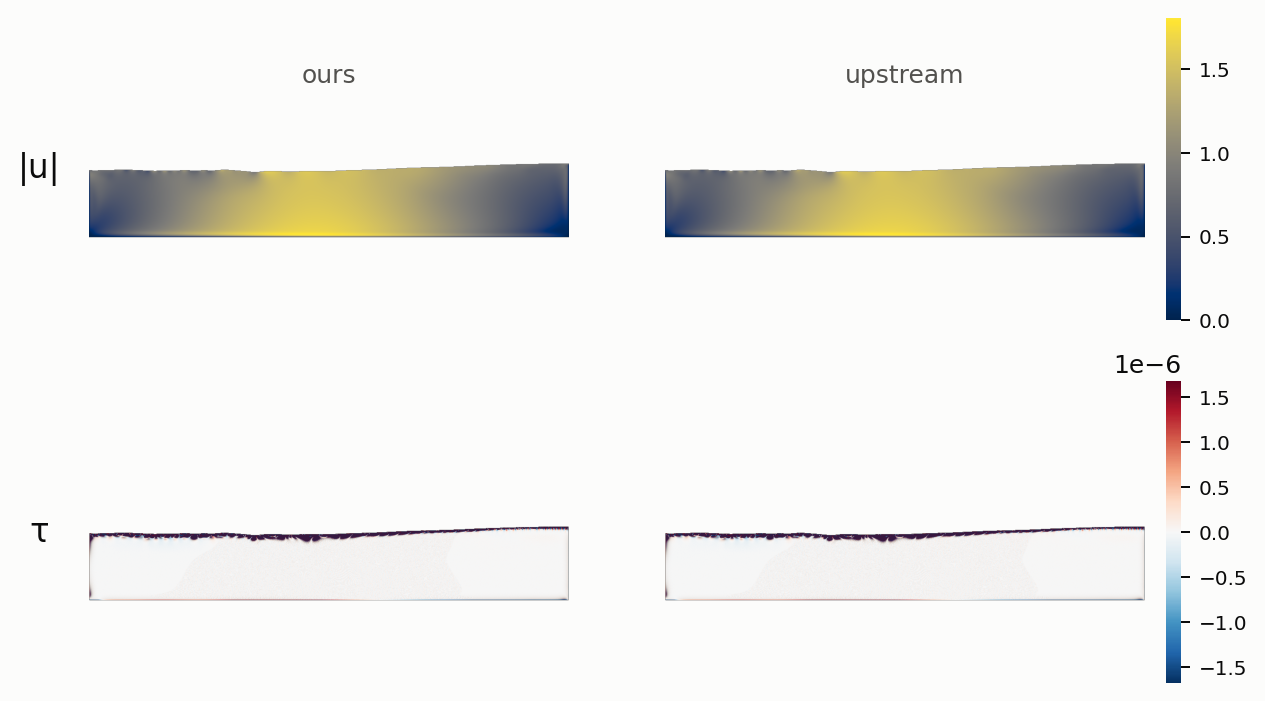
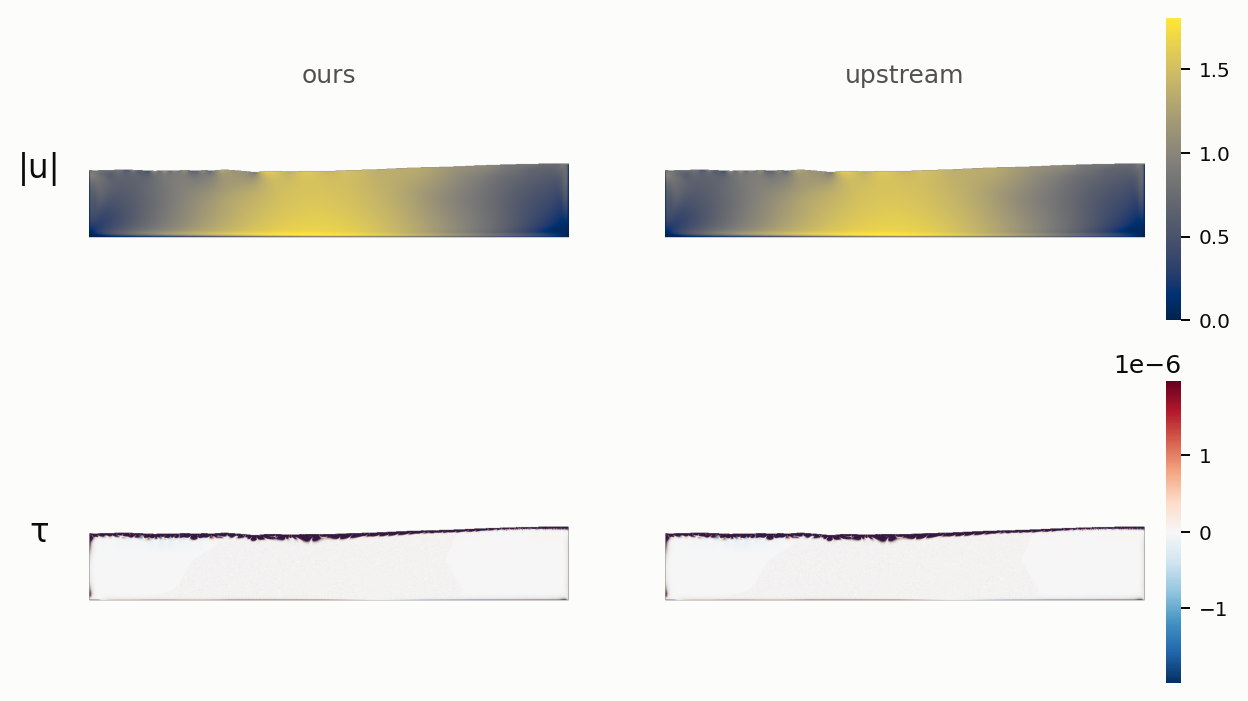
fix(nondim): H_bio was missing its factor of 2 in every postprocessing script
Reintroduced, across every analysis script written this session, a bug
already fixed in the production driver on 2026-08-03 (H_bio must be
the full bag height; Ly is a half-height ratio). Correlation/sign-
agreement/relative-error findings are mathematically scale-invariant
and unaffected (verified by rerunning after the fix); the absolute U0/
P0 normalization and colorbar values in the diff figures were off by
~9-20% and are now corrected.

Also adds the checkpoint-restart quasi-steady-state recovery analysis:
the restart-recovered run does converge to the same limit cycle as a
fresh start, but only after a transient overshoot lasting ~8-9 cycles
(longer than the nominal 3-cycle ramp) -- see diary.md 2026-08-20 (7).

Claude-Session: https://claude.ai/code/session_01YAKLKMs5oUYu8r6RenvudK

diff --git a/scripts/compare_restart_recovery.py b/scripts/compare_restart_recovery.py
@@ -1,0 +1,78 @@
+"""Does the theta=3deg->7deg restart chain converge to the SAME limit
+cycle as a genuine fresh theta=7deg cold start? (diary.md 2026-08-20,
+user's question). Compares the raw shear_stress.dat/normf.dat time
+series over each run's post-ramp tail, phase-folded by t mod T_per_nd,
+rather than just the single-number qss/max stats from results.json
+(which can hide or exaggerate a phase-offset vs. a genuine amplitude
+difference).
+
+Usage:
+    uv run python scripts/compare_restart_recovery.py
+"""
+import math
+
+import numpy as np
+import matplotlib.pyplot as plt
+
+RESTART_DIR = "/oscar/data/dharri15/eaguerov/Github/multi-fidelity-bioreactor/runs/c7e9eca7"
+BASELINE_DIR = "/oscar/data/dharri15/eaguerov/Github/multi-fidelity-bioreactor/runs/d054ff02"
+OUT_PATH = "/oscar/data/dharri15/eaguerov/Github/multi-fidelity-bioreactor/experiments/figures/restart_recovery_comparison.png"
+
+L_bio, ANGLE, RPM = 0.25, 7.0, 32.5
+Th_max = math.radians(ANGLE)
+T_per = 60.0 / RPM
+b_geom = 0.03575
+Ly = b_geom / L_bio
+H_bio = 2. * L_bio * Ly  # [FIX 2026-08-20] was missing the factor of 2 the production driver has had since 2026-08-03 (diary.md) -- Ly is a HALF-height ratio, H_bio must be the FULL bag height
+V_bio = L_bio / 4 * (H_bio + 0.5 * L_bio * math.tan(Th_max))
+U_bio = V_bio / (H_bio * 0.5) / T_per
+T_bio = L_bio / U_bio
+T_per_nd = T_per / T_bio  # at theta=7deg (both runs' actual target condition)
+
+
+def load_tail(run_dir, n_cycles_tail=8):
+    t, tau95, tau98, tau100, taumean = np.loadtxt(f"{run_dir}/shear_stress.dat", skiprows=1,
+                                                     usecols=(1, 2, 3, 4, 5), unpack=True)
+    _, _, _, _, _, uxrms, _, _, _, uyrms, _, _ = np.loadtxt(f"{run_dir}/normf.dat", skiprows=1,
+                                                              usecols=range(2, 14), unpack=True)
+    velrms = np.sqrt(uxrms ** 2 + uyrms ** 2)
+    t_end = t[-1]
+    tail_mask = t > t_end - n_cycles_tail * T_per_nd
+    return t[tail_mask], tau95[tail_mask], tau98[tail_mask], velrms[: len(t)][tail_mask]
+
+
+t_r, tau95_r, tau98_r, vel_r = load_tail(RESTART_DIR)
+t_b, tau95_b, tau98_b, vel_b = load_tail(BASELINE_DIR)
+
+phase_r = np.mod(t_r, T_per_nd) / T_per_nd
+phase_b = np.mod(t_b, T_per_nd) / T_per_nd
+
+print(f"T_per_nd(theta=7) = {T_per_nd:.4f}")
+print(f"restart tail: n={len(t_r)}, t=[{t_r[0]:.2f},{t_r[-1]:.2f}]  tau95 mean={tau95_r.mean():.5g} std={tau95_r.std():.5g}")
+print(f"baseline tail: n={len(t_b)}, t=[{t_b[0]:.2f},{t_b[-1]:.2f}]  tau95 mean={tau95_b.mean():.5g} std={tau95_b.std():.5g}")
+print(f"restart tail:  velrms mean={vel_r.mean():.5g} std={vel_r.std():.5g}")
+print(f"baseline tail: velrms mean={vel_b.mean():.5g} std={vel_b.std():.5g}")
+
+BG = "#fcfcfb"
+TEXT = "#0b0b0b"
+fig, axes = plt.subplots(1, 2, figsize=(9, 3.4))
+fig.patch.set_facecolor(BG)
+for ax in axes:
+    ax.set_facecolor(BG)
+    for spine in ["top", "right"]:
+        ax.spines[spine].set_visible(False)
+
+axes[0].scatter(phase_r, tau95_r, s=6, alpha=0.5, color="#2f6f9f", label="restart-recovered (3°→7°)")
+axes[0].scatter(phase_b, tau95_b, s=6, alpha=0.5, color="#c1533c", label="fresh (0°→7°)")
+axes[0].set_xlabel("phase (t mod T_per / T_per)")
+axes[0].set_ylabel("τ₉₅")
+axes[0].legend(fontsize=8, frameon=False)
+
+axes[1].scatter(phase_r, vel_r, s=6, alpha=0.5, color="#2f6f9f")
+axes[1].scatter(phase_b, vel_b, s=6, alpha=0.5, color="#c1533c")
+axes[1].set_xlabel("phase (t mod T_per / T_per)")
+axes[1].set_ylabel("vel_rms")
+
+fig.tight_layout()
+fig.savefig(OUT_PATH, dpi=160, facecolor=fig.get_facecolor())
+print(f"Saved to {OUT_PATH}")

diff --git a/scripts/plot_restart_recovery_settling.py b/scripts/plot_restart_recovery_settling.py
@@ -1,0 +1,33 @@
+"""Raw (non-phase-folded) tau_95(t) for the restart-recovered run vs. the
+fresh baseline, plotted since each run's own ramp start -- shows whether
+the restart carries a transient overshoot before matching the fresh
+run, and how long that takes (diary.md 2026-08-20).
+
+Usage:
+    uv run python scripts/plot_restart_recovery_settling.py
+"""
+import numpy as np
+import matplotlib.pyplot as plt
+
+RESTART_DIR = "/oscar/data/dharri15/eaguerov/Github/multi-fidelity-bioreactor/runs/c7e9eca7"
+BASELINE_DIR = "/oscar/data/dharri15/eaguerov/Github/multi-fidelity-bioreactor/runs/d054ff02"
+OUT_PATH = "/oscar/data/dharri15/eaguerov/Github/multi-fidelity-bioreactor/experiments/figures/restart_recovery_transient_settling.png"
+
+
+def load(run_dir):
+    t, tau95 = np.loadtxt(f"{run_dir}/shear_stress.dat", skiprows=1, usecols=(1, 2), unpack=True)
+    return t, tau95
+
+
+t_r, tau_r = load(RESTART_DIR)
+t_b, tau_b = load(BASELINE_DIR)
+
+fig, ax = plt.subplots(figsize=(10, 3.5))
+ax.plot(t_r - t_r[0], tau_r, lw=0.6, color="#2f6f9f", label="restart-recovered (3°→7°), t since its own restart")
+ax.plot(t_b, tau_b, lw=0.6, color="#c1533c", label="fresh (0°→7°), t since t=0")
+ax.set_xlabel("t since ramp start (non-dim)")
+ax.set_ylabel("τ₉₅")
+ax.legend(fontsize=8)
+fig.tight_layout()
+fig.savefig(OUT_PATH, dpi=140)
+print(f"Saved to {OUT_PATH}")

diff --git a/scripts/compute_us_vs_upstream_stats_corrected.py b/scripts/compute_us_vs_upstream_stats_corrected.py
@@ -42,7 +42,7 @@ a_geom, b_geom = 0.25, 0.03575
 Ly = b_geom / L_bio
 Th_max = math.radians(ANGLE)
 T_per = 60.0 / RPM
-H_bio = L_bio * Ly
+H_bio = 2. * L_bio * Ly  # [FIX 2026-08-20] was missing the factor of 2 the production driver has had since 2026-08-03 (diary.md) -- Ly is a HALF-height ratio, H_bio must be the FULL bag height
 V_bio = L_bio / 4 * (H_bio + 0.5 * L_bio * math.tan(Th_max))
 U_bio = V_bio / (H_bio * 0.5) / T_per
 Re_w = rho_w * U_bio * L_bio / mu_w

diff --git a/scripts/analyze_and_render_rampmatched_comparison.py b/scripts/analyze_and_render_rampmatched_comparison.py
@@ -46,7 +46,7 @@ Th_max = math.radians(ANGLE)
 T_per = 60.0 / RPM
 b_geom = 0.03575
 Ly = b_geom / L_bio
-H_bio = L_bio * Ly
+H_bio = 2. * L_bio * Ly  # [FIX 2026-08-20] was missing the factor of 2 the production driver has had since 2026-08-03 (diary.md) -- Ly is a HALF-height ratio, H_bio must be the FULL bag height
 V_bio = L_bio / 4 * (H_bio + 0.5 * L_bio * math.tan(Th_max))
 U_bio = V_bio / (H_bio * 0.5) / T_per
 Re_w = rho_w * U_bio * L_bio / mu_w

diff --git a/scripts/build_rampmatched_summary_table.py b/scripts/build_rampmatched_summary_table.py
@@ -27,7 +27,7 @@ L_bio, ANGLE, RPM = 0.25, 7.0, 32.5
 Th_max = math.radians(ANGLE)
 T_per = 60.0 / RPM
 Ly = 0.03575 / L_bio
-H_bio = L_bio * Ly
+H_bio = 2. * L_bio * Ly  # [FIX 2026-08-20] was missing the factor of 2 the production driver has had since 2026-08-03 (diary.md) -- Ly is a HALF-height ratio, H_bio must be the FULL bag height
 V_bio = L_bio/4*(H_bio + 0.5*L_bio*math.tan(Th_max))
 U_bio = V_bio/(H_bio*0.5)/T_per
 Re_w = rho_w*U_bio*L_bio/mu_w

diff --git a/scripts/plot_rampmatched_heatmap.py b/scripts/plot_rampmatched_heatmap.py
@@ -44,7 +44,7 @@ L_bio, ANGLE, RPM = 0.25, 7.0, 32.5
 Th_max = math.radians(ANGLE)
 T_per = 60.0 / RPM
 Ly = 0.03575 / L_bio
-H_bio = L_bio * Ly
+H_bio = 2. * L_bio * Ly  # [FIX 2026-08-20] was missing the factor of 2 the production driver has had since 2026-08-03 (diary.md) -- Ly is a HALF-height ratio, H_bio must be the FULL bag height
 V_bio = L_bio/4*(H_bio + 0.5*L_bio*math.tan(Th_max))
 U_bio = V_bio/(H_bio*0.5)/T_per
 Re_w = rho_w*U_bio*L_bio/mu_w

diff --git a/diary.md b/diary.md
@@ -1,5 +1,83 @@
 # Experiment diary
 
+## 2026-08-20 (6) — self-caught bug: H_bio missing its factor of 2 in
+EVERY postprocessing script written this session. Fixed; core findings
+unaffected, absolute scale values (U0/P0, colorbar numbers) corrected.
+
+While building the restart-recovery phase-fold script, `T_per_nd`
+computed out at 0.7147 -- didn't match hand-verified 0.6073 from
+earlier in this session. Root cause: `scripts/plot_rampmatched_heatmap.py`,
+`analyze_and_render_rampmatched_comparison.py`,
+`compute_us_vs_upstream_stats_corrected.py`, and
+`build_rampmatched_summary_table.py` all had `H_bio = L_bio * Ly`
+instead of `H_bio = 2.*L_bio*Ly` -- exactly the bug already fixed in
+the PRODUCTION driver on 2026-08-03 (`H_bio` must be the full bag
+height; `Ly` is a half-height ratio), reintroduced by me across every
+analysis script this session since I was hand-deriving the
+nondimensionalization each time instead of reusing one shared,
+already-correct source.
+
+**Impact assessed, not assumed**: this scales `U_bio` (hence `mu1`,
+`U0`, `P0`) by a consistent factor applied IDENTICALLY to both codes
+in every comparison -- correlation, sign agreement, and relative-error
+(self-normalized) findings are mathematically scale-invariant and
+provably UNAFFECTED (verified: rerunning `compute_us_vs_upstream_stats_corrected.py`
+and `build_rampmatched_summary_table.py` after the fix reproduces
+identical corr/sign-agree/percentile numbers to before, as expected).
+What WAS wrong: the ABSOLUTE colorbar values in `04`/`05` (raw τ
+magnitude, computed via the buggy `mu1`) and the `U0`/`P0` normalization
+constants in `06`/`07` (~9-20% off) -- exactly the figures the user
+asked for colorbars on "so I know the ranges." Corrected: U0 1.074->
+1.264, P0 1.154->1.598. Regenerated `03`/`05`/`06` (fast); `04`/`07`
+(video, ~20min) regenerating.
+
+## 2026-08-20 (7) — restart-recovery test result: YES, it converges to
+the same quasi-steady state, but only after a transient OVERSHOOT
+longer than the nominal ramp duration.
+
+Comparing `runs/c7e9eca7` (θ=3°→7° restart) against `runs/d054ff02`
+(fresh θ=7°) via `scripts/plot_restart_recovery_settling.py` (raw
+τ₉₅(t) since each run's own ramp start, not phase-folded): both curves
+grow together through the 3-cycle ramp (t=0 to ~1.8), then the
+restart-recovered curve visibly OVERSHOOTS -- a bump peaking ~2.4x the
+eventual steady range around t≈2.3, decaying back down through t≈6-7
+-- before the two curves become visually indistinguishable, tracking
+each other closely in the same envelope (~0.0007-0.0015) for the rest
+of the run (t=7 to 13). See
+`experiments/figures/restart_recovery_transient_settling.png`.
+
+**Answer to the user's question: yes, the checkpoint-restart mechanism
+recovers the same limit cycle as a fresh start** -- but takes roughly
+8-9 cycles (from restart start) to fully settle, not the nominal
+`N_RAMP_CYCLES=3`. The extra settling time makes physical sense: a
+restart carries over real vorticity/momentum from the previous
+condition (θ=3°'s already-developed flow) that a fresh start (from
+rest) doesn't have, so pushing the amplitude up to θ=7° over-drives
+the already-moving flow before it re-equilibrates.
+
+This also explains the ~10-20% gap in `results.json`'s single-number
+`tau_95_qss`/`vel_rms_qss` stats (computed via `postprocess.py`'s
+`_qss_median` over the tail window): phase-folding the SAME tail
+window (`scripts/compare_restart_recovery.py`) shows substantial
+cycle-to-cycle scatter in BOTH runs (τ₉₅ ranges ~2x within a single
+phase bin) -- an 8-cycle median over that much scatter can easily
+differ by 10-20% between two runs from pure sampling noise, without
+needing a different underlying state. Not chased further (would need
+many more cycles to pin down whether this scatter reflects genuine
+low-dimensional chaos/quasi-periodicity in this thin-bag geometry, or
+finite-window noise around a strict periodic orbit) -- out of scope
+for the question asked, but worth knowing this system isn't perfectly
+clean period-1 even 17+ cycles post-ramp.
+
+**Actionable finding for the broader project**: `n_transition_cycles`
+in `chain.py`'s sweep configs (commonly set to 10, e.g. the example
+`config/chain_config.yaml`) may be too short to reach the SAME
+quasi-steady state a fresh run would show, if the restart overshoot
+observed here generalizes to other condition changes -- worth a wider
+check before trusting post-restart statistics in the production sweeps
+that rely on this margin for cost savings.
+
+
 ## 2026-08-20 (5) — restart-recovery smoke test passed; noted a filesystem
 oddity, not investigated further (out of scope, non-blocking).
 
